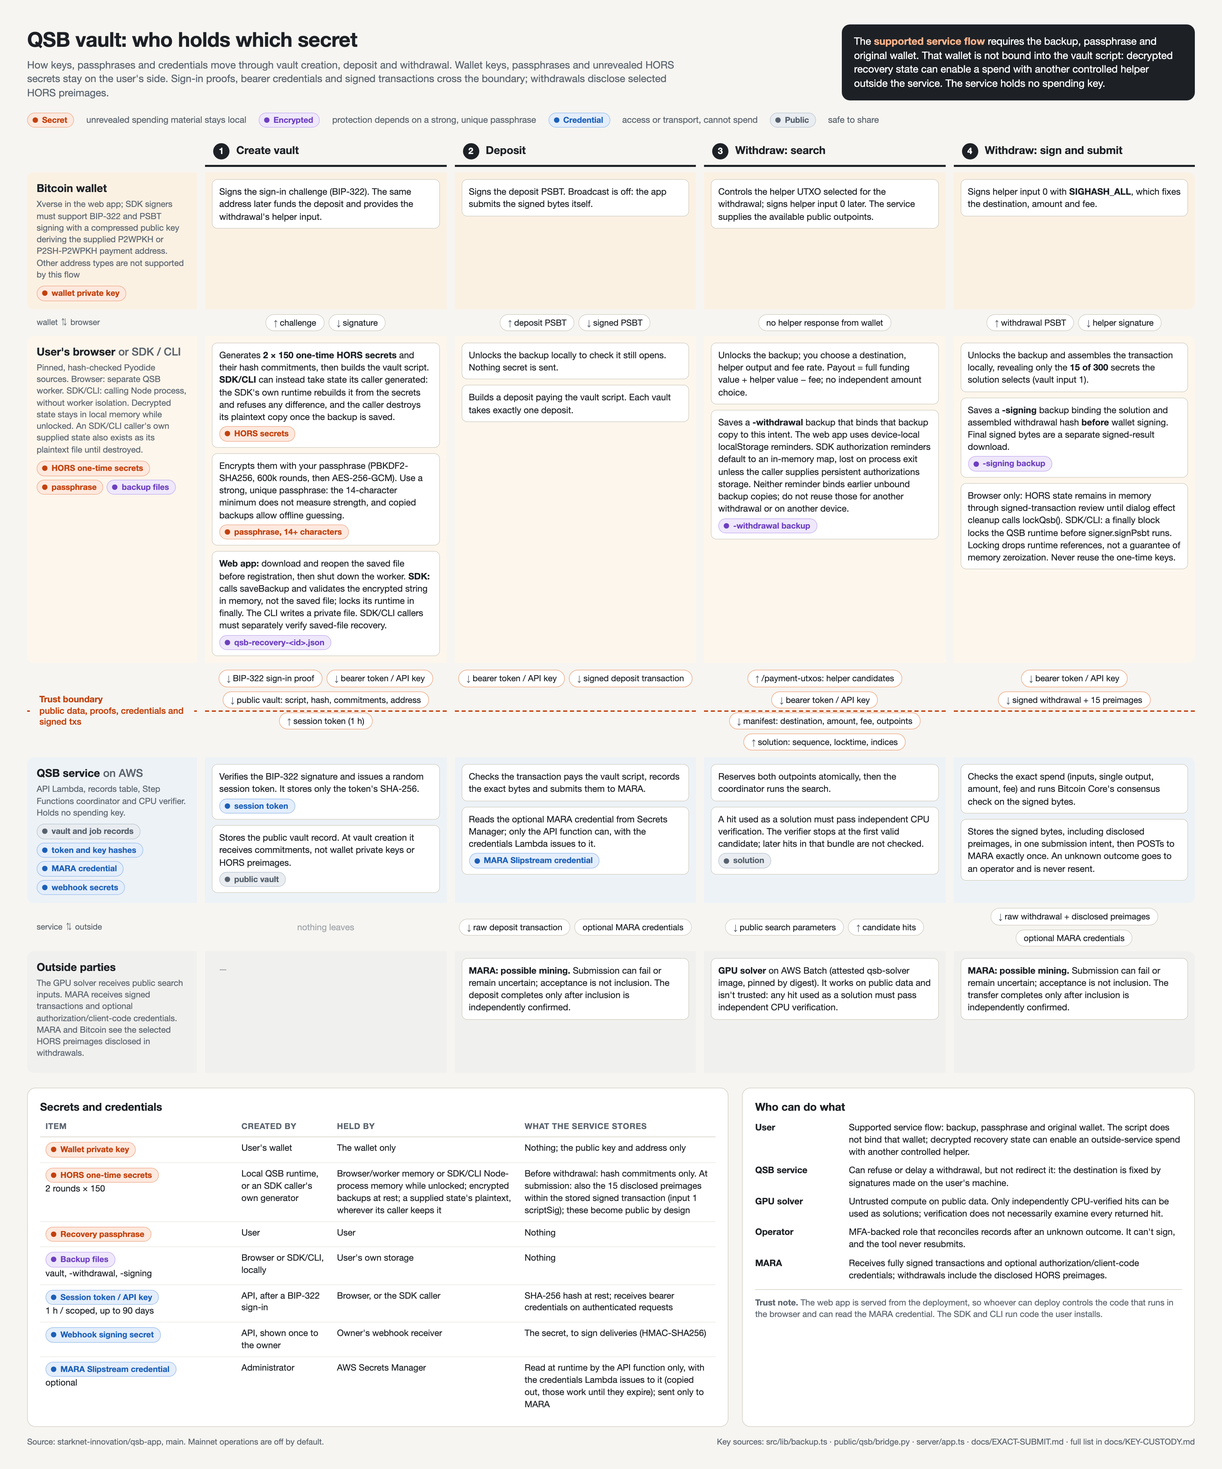
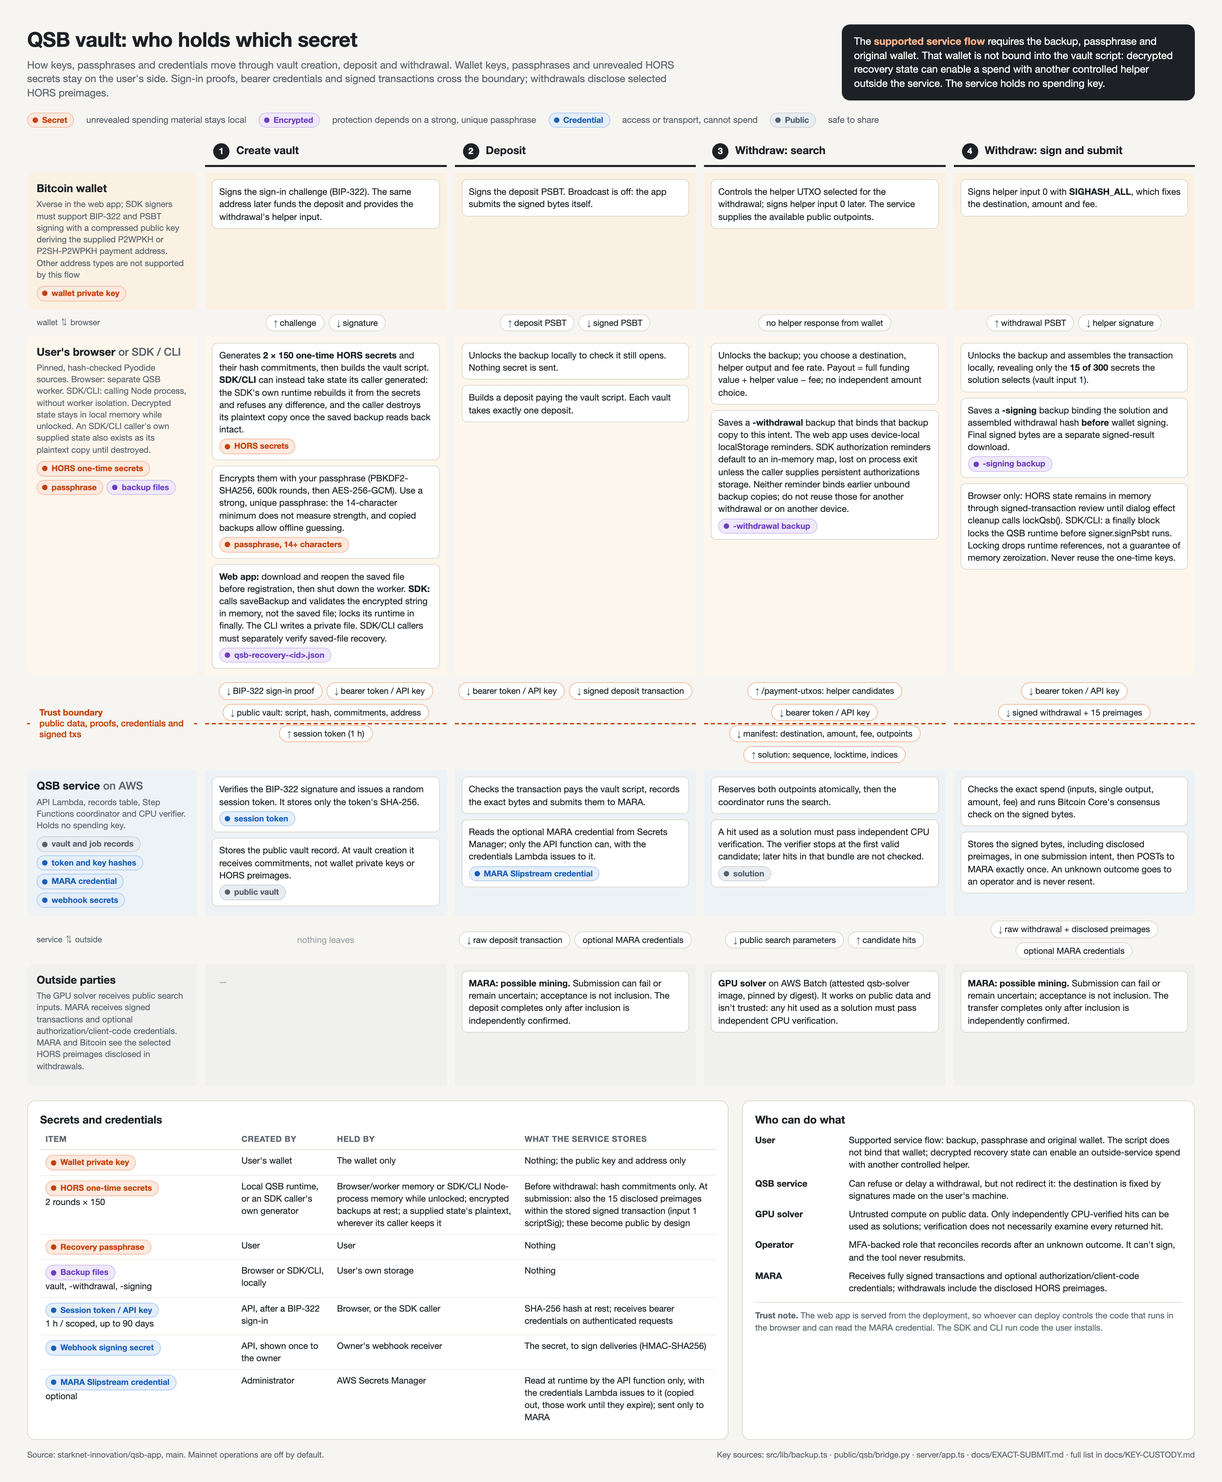
Report only the bridge's RefusedError as a refused state; test the re-open
adopt raises RefusedError for each of its checks, and the runtime turns only that into a
RefusedState (now exported with BundledQsb). Load, manifest and later bridge failures
surface as themselves. Messages read as findings, and a caller's odd JSON key is quoted.
The test checks that the bundled runtime re-opens the saved backup before the vault is
registered. The docs say to destroy the plaintext once the saved backup reads back intact.

diff --git a/tests/sdk-supplied-state.test.ts b/tests/sdk-supplied-state.test.ts
@@ -9,17 +9,53 @@ import { ripemd160 } from "@noble/hashes/legacy.js";
 import { sha256 } from "@noble/hashes/sha2.js";
 import awsRelease from "../src/lib/releases/qsb-solver-aws-v0-1-0.json";
 import { decryptRecovery } from "../src/lib/backup";
-import { QsbClient, loopbackTestSigner, nodeQsb, type LocalQsb } from "../sdk";
+import { QsbClient, RefusedState, loopbackTestSigner, nodeQsb, type LocalQsb } from "../sdk";
 import { runCli } from "../sdk/cli";
 import { API, wallet, world } from "./sdk-fixture";
 
-// Stands in for a damaged install while set: bridge.py no longer matches the manifest.
-const damaged = vi.hoisted(() => ({ bridge: false }));
+/**
+ * While `bridge` is set, the runtime reads a damaged install: "altered" no longer matches the
+ * manifest; "failing" is listed in it, but its setup raises after adopt's checks pass.
+ */
+const damaged = vi.hoisted(() => ({ bridge: undefined as "altered" | "failing" | undefined }));
 vi.mock("node:fs/promises", async (importOriginal) => {
   const actual = await importOriginal<typeof import("node:fs/promises")>();
-  const readFile = (async (file: Parameters<typeof actual.readFile>[0], ...rest: [never]) =>
-    damaged.bridge && String(file).endsWith("/bridge.py") ? Buffer.from("import os\n") : actual.readFile(file, ...rest)) as typeof actual.readFile;
+  const { createHash } = await import("node:crypto");
+  const failing = async () =>
+    Buffer.concat([
+      await actual.readFile(new URL("../public/qsb/bridge.py", import.meta.url)),
+      Buffer.from("\ndef setup(secrets=None):\n    raise ValueError('setup failed')\n"),
+    ]);
+  const readFile = (async (file: Parameters<typeof actual.readFile>[0], ...rest: [never]) => {
+    const name = String(file);
+    if (damaged.bridge === "altered" && name.endsWith("/qsb/bridge.py")) return Buffer.from("import os\n");
+    if (damaged.bridge === "failing" && name.endsWith("/qsb/bridge.py")) return failing();
+    if (damaged.bridge === "failing" && name.endsWith("/qsb/manifest.json")) {
+      const manifest = JSON.parse(String(await actual.readFile(file)));
+      return Buffer.from(JSON.stringify({ ...manifest, "bridge.py": createHash("sha256").update(await failing()).digest("hex") }));
+    }
+    return actual.readFile(file, ...rest);
+  }) as typeof actual.readFile;
   return { ...actual, readFile };
+});
+/** What the SDK's own runtimes re-open, in order with the vault registrations the transport sees. */
+const events = vi.hoisted(() => [] as string[]);
+vi.mock("../sdk/runtime", async (importOriginal) => {
+  const actual = await importOriginal<typeof import("../sdk/runtime")>();
+  return {
+    ...actual,
+    nodeQsb: () => {
+      const qsb = actual.nodeQsb();
+      return {
+        ...qsb,
+        validateRecovery: async (stateJson: string) => {
+          const scriptHash = await qsb.validateRecovery(stateJson);
+          events.push(`re-open ${scriptHash}`);
+          return scriptHash;
+        },
+      };
+    },
+  };
 });
 
 beforeEach(() => vi.stubEnv("SOLVER_RELEASE_ID", awsRelease.id));
@@ -66,14 +102,16 @@ function edits(stateJson: string): [string, string, RegExp][] {
     ["a private field", stateJson.replace(/^\{/, '{"pin_privkey": 1, '), /^pin_privkey is not a field the pipeline produces$/],
     ["a private round field", replaceOnce(stateJson, '"round_sigs": [{', '"round_sigs": [{"seed": "00", '), /^round_sigs\[0\]\.seed is not a field the pipeline produces$/],
     ["a missing field", stateJson.replace(/"dummy_sigs": \[\[[^\]]*\], \[[^\]]*\]\], /, ""), /^dummy_sigs is missing$/],
-    ["a repeated secret", replaceOnce(stateJson, `"${state.hors_secrets[1][9]}"`, `"${state.hors_secrets[0][2]}"`), /^A HORS secret repeats$/],
-    ["an uppercase secret", replaceOnce(stateJson, `"${state.hors_secrets[0][0]}"`, `"${state.hors_secrets[0][0].toUpperCase()}"`), /^Each HORS secret is 20 bytes of lowercase hex$/],
+    ["a repeated secret", replaceOnce(stateJson, `"${state.hors_secrets[1][9]}"`, `"${state.hors_secrets[0][2]}"`), /^a HORS secret repeats$/],
+    ["an uppercase secret", replaceOnce(stateJson, `"${state.hors_secrets[0][0]}"`, `"${state.hors_secrets[0][0].toUpperCase()}"`), /^a HORS secret is not 20 bytes of lowercase hex$/],
     ["another configuration", replaceOnce(stateJson, '"n": 150,', '"n": 140,'), /^n is not Config A's 150$/],
     ["a configuration of another type", replaceOnce(stateJson, '"t1b": 1,', '"t1b": true,'), /^t1b is not Config A's 1$/],
     ["no secrets", replaceOnce(stateJson, '"hors_secrets"', '"secrets"'), /^hors_secrets is missing$/],
     ["a short round of secrets", replaceOnce(stateJson, `, "${state.hors_secrets[1][149]}"]`, "]"), /^hors_secrets is not 2 rounds of 150 secrets$/],
     ["a repeated key", stateJson.replace(/^\{/, '{"hors_secrets": [[], []], '), /^hors_secrets appears twice in one object$/],
-    ["not an object", "[]", /^The recovery state is not a JSON object$/],
+    ["a key that isn't a plain name", stateJson.replace(/^\{/, '{"a\\nValueError: x": 1, '), /^"a\\nValueError: x" is not a field the pipeline produces$/],
+    ["not an object", "[]", /^the recovery state is not a JSON object$/],
+    ["not JSON", stateJson.slice(0, -1), /^the recovery state is not JSON this check reads \(.+\)$/],
   ];
 }
 
@@ -85,8 +123,11 @@ describe("adoptQsb in the SDK's bundled runtime", () => {
       // Key order and whitespace aren't part of the state.
       const reordered = replaceOnce(generated.stateJson, '{"config": "A", ', "{\n  ").replace(/\}$/, ', "config": "A"}');
       expect(await qsb.adoptQsb(reordered)).toEqual(generated);
-      for (const [label, stateJson, message] of edits(generated.stateJson))
-        await expect(qsb.adoptQsb(stateJson), label).rejects.toThrow(message);
+      for (const [label, stateJson, message] of edits(generated.stateJson)) {
+        const error = await qsb.adoptQsb(stateJson).then(() => new Error(`${label} was accepted`), (e: Error) => e);
+        expect(error, label).toBeInstanceOf(RefusedState);
+        expect(error.message, label).toMatch(message);
+      }
     } finally {
       qsb.lockQsb();
     }
@@ -112,21 +153,27 @@ const vaultPosts = (w: ReturnType<typeof world>) =>
   w.requests.filter((r) => r.method === "POST" && new URL(r.url).pathname === "/v1/vaults");
 
 describe("vaults.create with a supplied state", () => {
-  async function signedIn(qsb: LocalQsb = replacedRuntime()) {
+  async function signedIn(qsb: LocalQsb = replacedRuntime(), wrap = (next: typeof fetch) => next) {
     const w = world();
     const owner = wallet(w.chain);
     const signer = loopbackTestSigner(owner.wif, API);
-    const client = new QsbClient({ baseUrl: API, signer, fetch: w.fetch, qsb });
+    const client = new QsbClient({ baseUrl: API, signer, fetch: wrap(w.fetch), qsb });
     await client.login();
     return { w, owner, signer, client };
   }
 
   it("registers the state's vault, checked and re-opened by the bundled runtime, not the qsb option", async () => {
     const qsb = replacedRuntime();
-    const { w, owner, signer, client } = await signedIn(qsb);
-    const saveBackup = vi.fn(async (_: string) => {});
+    const { w, owner, signer, client } = await signedIn(qsb, (next) => (async (input, init) => {
+      if (init?.method === "POST" && new URL(String(input)).pathname === "/v1/vaults") events.push("register");
+      return next(input, init);
+    }) as typeof fetch);
+    const saveBackup = vi.fn(async (text: string) => void events.push(`save ${text.length}`));
+    events.length = 0;
     const { vault, backup } = await client.vaults.create({ name: "own state", passphrase, saveBackup, stateJson: generated.stateJson });
     expect(saveBackup).toHaveBeenCalledExactlyOnceWith(backup);
+    // The bundled runtime re-opened the saved backup before the vault was registered.
+    expect(events).toEqual([`save ${backup.length}`, `re-open ${generated.scriptHash}`, "register"]);
     expect([vault.scriptHex, vault.scriptHash, vault.publicStateJson]).toEqual([generated.scriptHex, generated.scriptHash, generated.publicStateJson]);
     expect((await decryptRecovery(backup, passphrase)).stateJson).toBe(generated.stateJson);
     for (const call of [qsb.generateQsb, qsb.validateRecovery, qsb.assembleQsb, qsb.lockQsb]) expect(call).not.toHaveBeenCalled();
@@ -166,16 +213,24 @@ describe("vaults.create with a supplied state", () => {
     expect(vaultPosts(w)).toHaveLength(0);
   }, 120000);
 
-  it("reports a runtime that fails its manifest check as that, not as a refused state", async () => {
+  it("reports a runtime failure as that, not as a refused state", async () => {
     const { w, client } = await signedIn();
     const saveBackup = vi.fn(async () => {});
-    damaged.bridge = true;
-    try {
-      await expect(client.vaults.create({ name: "damaged", passphrase, saveBackup, stateJson: generated.stateJson })).rejects.toThrow(
-        /^QSB source integrity check failed$/,
-      );
-    } finally {
-      damaged.bridge = false;
+    for (const [bridge, message] of [
+      ["altered", /^QSB source integrity check failed$/],
+      ["failing", /^setup failed$/],
+    ] as const) {
+      damaged.bridge = bridge;
+      try {
+        const error = await client.vaults.create({ name: "damaged", passphrase, saveBackup, stateJson: generated.stateJson }).then(
+          () => new Error(`${bridge} was accepted`),
+          (e: Error) => e,
+        );
+        expect(error, bridge).not.toBeInstanceOf(RefusedState);
+        expect(error.message, bridge).toMatch(message);
+      } finally {
+        damaged.bridge = undefined;
+      }
     }
     expect(saveBackup).not.toHaveBeenCalled();
     expect(vaultPosts(w)).toHaveLength(0);

diff --git a/docs/key-custody.html b/docs/key-custody.html
@@ -177,7 +177,7 @@
   <!-- BROWSER LANE -->
   <div class="lane-label browser">
     <h2>User's browser <span style="font-weight:500;color:var(--muted)">or SDK / CLI</span></h2>
-    <p>Pinned, hash-checked Pyodide sources. Browser: separate QSB worker. SDK/CLI: calling Node process, without worker isolation. Decrypted state stays in local memory while unlocked. An SDK/CLI caller's own supplied state also exists as its plaintext file until destroyed.</p>
+    <p>Pinned, hash-checked Pyodide sources. Browser: separate QSB worker. SDK/CLI: calling Node process, without worker isolation. Decrypted state stays in local memory while unlocked. An SDK/CLI caller's own supplied state also exists as its plaintext copy until destroyed.</p>
     <div class="holds">
       <span class="chip secret">HORS one-time secrets</span>
       <span class="chip secret">passphrase</span>
@@ -185,7 +185,7 @@
     </div>
   </div>
   <div class="cell browser">
-    <div class="step">Generates <b>2 × 150 one-time HORS secrets</b> and their hash commitments, then builds the vault script. <b>SDK/CLI</b> can instead take state its caller generated: the SDK's own runtime rebuilds it from the secrets and refuses any difference, and the caller destroys its plaintext copy once the backup is saved.<br><span class="chip secret">HORS secrets</span></div>
+    <div class="step">Generates <b>2 × 150 one-time HORS secrets</b> and their hash commitments, then builds the vault script. <b>SDK/CLI</b> can instead take state its caller generated: the SDK's own runtime rebuilds it from the secrets and refuses any difference, and the caller destroys its plaintext copy once the saved backup reads back intact.<br><span class="chip secret">HORS secrets</span></div>
     <div class="step">Encrypts them with your passphrase (PBKDF2-SHA256, 600k rounds, then AES-256-GCM). Use a strong, unique passphrase: the 14-character minimum does not measure strength, and copied backups allow offline guessing.<br><span class="chip secret">passphrase, 14+ characters</span></div>
     <div class="step"><b>Web app:</b> download and reopen the saved file before registration, then shut down the worker. <b>SDK:</b> calls saveBackup and validates the encrypted string in memory, not the saved file; locks its runtime in finally. The CLI writes a private file. SDK/CLI callers must separately verify saved-file recovery.<br><span class="chip enc">qsb-recovery-&lt;id&gt;.json</span></div>
   </div>

diff --git a/sdk/runtime.ts b/sdk/runtime.ts
@@ -12,22 +12,22 @@ type GeneratedQsb = Awaited<ReturnType<LocalQsb["generateQsb"]>>;
  * secrets and finds every field the same.
  */
 export type BundledQsb = LocalQsb & { adoptQsb(stateJson: string): Promise<GeneratedQsb> };
-/** The bridge refused a supplied recovery state; the message says what didn't match. */
+/** `adoptQsb` refused the supplied recovery state; the message says what didn't match. Any other failure is a plain Error. */
 export class RefusedState extends Error {}
 
 // The vendored generator sources the browser serves from /qsb/, checked against the same manifest.
 const sources = new URL("../public/qsb/", import.meta.url);
 
-/** A Python error's message is its whole traceback; keep only the raised message. */
+/**
+ * A Python error's message is its whole traceback; keep only the raised message. The bridge's
+ * RefusedError, raised only by adopt, becomes a RefusedState.
+ */
 function pythonError(error: unknown): Error {
   if (!(error instanceof Error)) return new Error("QSB operation failed");
+  if (error.constructor.name !== "PythonError") return new Error(error.message);
   const lines = error.message.trim().split("\n");
-  const last = lines[lines.length - 1] ?? "";
-  return new Error(
-    error.constructor.name === "PythonError"
-      ? last.replace(/^[A-Za-z_.]+(?:Error|Exception): /, "")
-      : error.message,
-  );
+  const message = (lines[lines.length - 1] ?? "").replace(/^[A-Za-z_.]+(?:Error|Exception): /, "");
+  return (error as { type?: unknown }).type === "RefusedError" ? new RefusedState(message) : new Error(message);
 }
 
 /**
@@ -59,15 +59,7 @@ export function nodeQsb(): BundledQsb {
   };
   return {
     ...qsbOperations(run),
-    async adoptQsb(stateJson) {
-      // A runtime that fails to load or to pass its manifest check hasn't refused anything.
-      await start();
-      try {
-        return JSON.parse(await run("adopt", [stateJson])) as GeneratedQsb;
-      } catch (error) {
-        throw new RefusedState((error as Error).message, { cause: error });
-      }
-    },
+    adoptQsb: async (stateJson) => JSON.parse(await run("adopt", [stateJson])) as GeneratedQsb,
     lockQsb() {
       runtime = undefined;
     },

diff --git a/sdk/index.ts b/sdk/index.ts
@@ -15,6 +15,6 @@ export {
   type SignedWithdrawal,
   type WithdrawalReview,
 } from "./client";
-export { nodeQsb, type LocalQsb } from "./runtime";
+export { RefusedState, nodeQsb, type BundledQsb, type LocalQsb } from "./runtime";
 export type { Signer } from "./signer";
 export { loopbackTestSigner } from "./test-signer";

diff --git a/public/qsb/bridge.py b/public/qsb/bridge.py
@@ -67,13 +67,20 @@ def result(state):
 def generate():
     return result(setup())
 
+class RefusedError(ValueError):
+    """adopt's refusal of a supplied state: the message says what didn't match."""
+
+def name(key):
+    """A caller's JSON key as it appears in a message, quoted unless it's a plain name."""
+    return key if re.fullmatch('[A-Za-z_][A-Za-z0-9_]*', key) else json.dumps(key)
+
 def difference(supplied, expected, path=''):
     """The first place `supplied` differs from `expected` in shape, type or value, or None."""
     if isinstance(expected, dict) and isinstance(supplied, dict):
         at = lambda key: f'{path}.{key}' if path else key
         for key in supplied:
             if key not in expected:
-                return f'{at(key)} is not a field the pipeline produces'
+                return f'{at(name(key))} is not a field the pipeline produces'
         for key in expected:
             found = f'{at(key)} is missing' if key not in supplied else difference(supplied[key], expected[key], at(key))
             if found:
@@ -94,32 +101,35 @@ def unique(pairs):
     keys = [k for k, _ in pairs]
     for key in keys:
         if keys.count(key) > 1:
-            raise ValueError(f'{key} appears twice in one object')
+            raise RefusedError(f'{name(key)} appears twice in one object')
     return dict(pairs)
 
 def adopt(state_json):
     """Accept a caller's recovery state only if it is exactly the state setup builds from its HORS secrets."""
-    state = json.loads(state_json, object_pairs_hook=unique)
+    try:
+        state = json.loads(state_json, object_pairs_hook=unique)
+    except (json.JSONDecodeError, RecursionError) as error:
+        raise RefusedError(f'the recovery state is not JSON this check reads ({error})')
     if not isinstance(state, dict):
-        raise ValueError('The recovery state is not a JSON object')
+        raise RefusedError('the recovery state is not a JSON object')
     for key in (*CONFIG_A, 'hors_secrets'):
         if key not in state:
-            raise ValueError(f'{key} is missing')
+            raise RefusedError(f'{key} is missing')
     for key, value in CONFIG_A.items():
         if json.dumps(state[key]) != json.dumps(value):
-            raise ValueError(f"{key} is not Config A's {json.dumps(value)}")
+            raise RefusedError(f"{key} is not Config A's {json.dumps(value)}")
     secrets = state['hors_secrets']
     if not isinstance(secrets, list) or len(secrets) != 2 or any(not isinstance(r, list) or len(r) != 150 for r in secrets):
-        raise ValueError('hors_secrets is not 2 rounds of 150 secrets')
+        raise RefusedError('hors_secrets is not 2 rounds of 150 secrets')
     flat = [s for r in secrets for s in r]
     if not all(isinstance(s, str) and re.fullmatch('[0-9a-f]{40}', s) for s in flat):
-        raise ValueError('Each HORS secret is 20 bytes of lowercase hex')
+        raise RefusedError('a HORS secret is not 20 bytes of lowercase hex')
     if len(set(flat)) != len(flat):
-        raise ValueError('A HORS secret repeats')
+        raise RefusedError('a HORS secret repeats')
     expected = setup([bytes.fromhex(s) for s in flat])
     found = difference(state, expected)
     if found:
-        raise ValueError(found)
+        raise RefusedError(found)
     return result(expected)
 
 def validate(state_json):

diff --git a/docs/KEY-CUSTODY.md b/docs/KEY-CUSTODY.md
@@ -19,7 +19,7 @@ Who holds each key, passphrase and credential through vault creation, deposit an
 | --- | --- |
 | Wallet | Signs the sign-in challenge (BIP-322). The same address later funds the deposit and provides the withdrawal's helper input. |
 | Wallet ↔ browser | The challenge goes to the wallet; the signature comes back. |
-| Browser | Generates 2 × 150 one-time HORS secrets and their hash commitments, then builds the vault script. An SDK/CLI caller can supply recovery state it generated itself instead (`stateJson`, `qsb vault create --state`): the SDK's own bundled runtime rebuilds that state from its HORS secrets and refuses any difference before encrypting it, and the caller keeps, then destroys, its plaintext copy. Encrypts them with the passphrase (14+ characters; PBKDF2-SHA256 with 600,000 rounds, then AES-256-GCM). Use a strong, unique passphrase: the 14-character minimum does not measure strength, and a copied backup allows offline guessing. In the web app, the user downloads `qsb-recovery-<id>.json` and reopens the saved file for verification before registration; then the worker is shut down. The SDK calls saveBackup, then decrypts and validates the in-memory encrypted string, not the persisted file. The CLI callback writes a private local file. SDK/CLI callers must separately check saved-file recovery; the SDK locks its runtime in finally. |
+| Browser | Generates 2 × 150 one-time HORS secrets and their hash commitments, then builds the vault script. An SDK/CLI caller can supply recovery state it generated itself instead (`stateJson`, `qsb vault create --state`): the SDK's own bundled runtime rebuilds that state from its HORS secrets and refuses any difference before encrypting it, and the caller keeps its plaintext copy until the saved backup reads back intact, then destroys it. Encrypts them with the passphrase (14+ characters; PBKDF2-SHA256 with 600,000 rounds, then AES-256-GCM). Use a strong, unique passphrase: the 14-character minimum does not measure strength, and a copied backup allows offline guessing. In the web app, the user downloads `qsb-recovery-<id>.json` and reopens the saved file for verification before registration; then the worker is shut down. The SDK calls saveBackup, then decrypts and validates the in-memory encrypted string, not the persisted file. The CLI callback writes a private local file. SDK/CLI callers must separately check saved-file recovery; the SDK locks its runtime in finally. |
 | Crosses to the service | The BIP-322 sign-in proof, then the public vault (script, script hash, HORS commitments and payment address). The service returns a 1-hour session token. Authenticated requests send that bearer token, or a scoped API key. |
 | Service | Verifies the BIP-322 signature and issues a random session token, storing only its SHA-256. Stores the public vault record. At vault creation it receives commitments, not wallet private keys or HORS preimages. |
 | Outside parties | Nothing leaves the service. |

diff --git a/sdk/README.md b/sdk/README.md
@@ -104,7 +104,9 @@ The SDK can't check these, so they're up to you:
 
 - The secrets are random and nobody else has them. Draw them from a cryptographically secure source; setup's `--seed` makes them predictable. Anyone who has them can spend the vault.
 - The state locks no other vault. The SDK only refuses a script that's already a vault of the signed-in address on this deployment. It can't see vaults of other addresses or deployments, or payments to the script made outside the app. A state is for one vault and one deposit: the first withdrawal discloses 15 of its secrets, which would help someone else spend any other output paying the same script.
-- The plaintext copy. The backup holds the state encrypted. Keep the plaintext as safe as the backup until the backup is saved, then destroy it.
+- The plaintext copy. The backup holds the state encrypted. Keep the plaintext as safe as the backup until the saved backup reads back as the `backup` that `vaults.create` returned (the CLI checks this before it finishes), then destroy it.
+
+`nodeQsb().adoptQsb(stateJson)` runs the same bridge check on its own, without the address check, and returns what `generateQsb` would. It throws `RefusedState` when it refuses the state; any other error is the runtime's, not a verdict on the state.
 
 ## CLI
 
